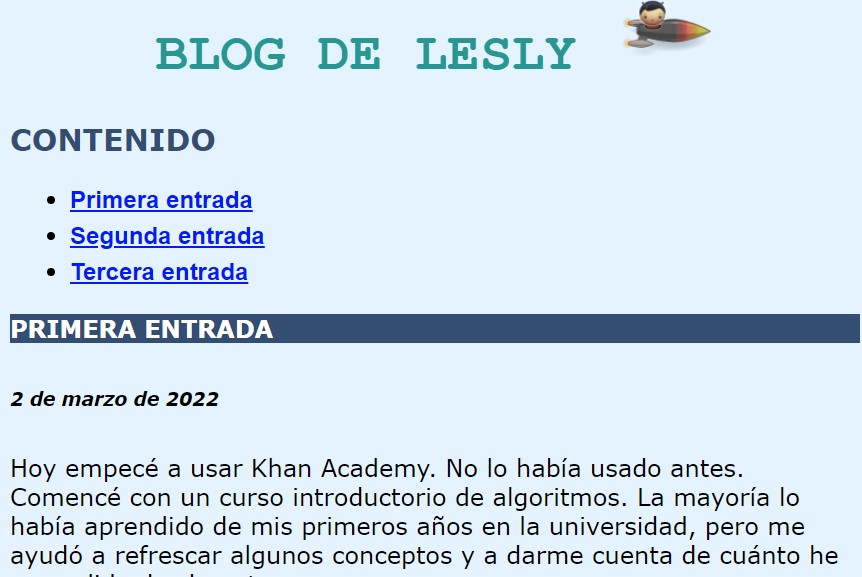
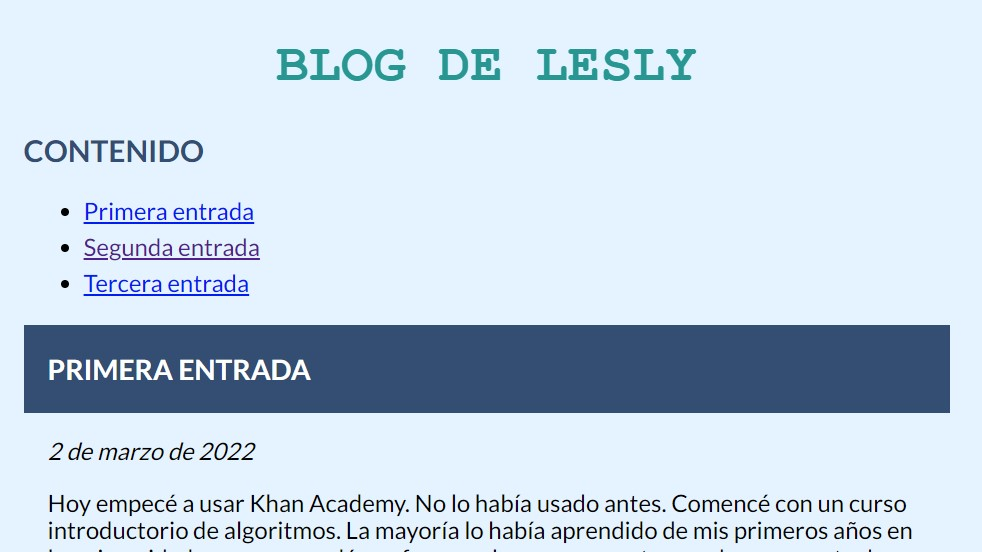
blog.html con diseño responsivo

diff --git a/pages/blog.html b/pages/blog.html
@@ -22,54 +22,102 @@
     <iframe src="lateral.html" frameborder="0" class="lateral"></iframe>
 
     <div class="contenedor">
-        <!--Título con logo-->
-        <h1>
-            BLOG DE LESLY
-            <img src="https://cdn.kastatic.org/third_party/javascript-khansrc/live-editor/build/images/space/rocketship.png"
-                height="70">
-        </h1>
 
-        <!--Tabla de contenido-->
-        <h2>CONTENIDO</h2>
-        <ul>
-            <li> <a href="#post-1" class="entrada">
-                    Primera entrada
-                </a></li>
-            <li> <a href="#post-2" class="entrada">
-                    Segunda entrada
-                </a></li>
-            <li> <a href="#post-3" class="entrada">
-                    Tercera entrada
-                </a></li>
-        </ul>
+        <section class="informacion">
+            <!--Título con logo-->
+            <h1 class="informacion__titulo">
+                BLOG DE LESLY
+            </h1>
+        </section>
 
-        <!--Empiezan las entradas con su fecha correspondiente-->
-        <h3 id="post-1">PRIMERA ENTRADA</h3>
-        <h6>2 de marzo de 2022</h6>
+        <section class="contenido">
 
-        <p>Hoy empecé a usar Khan Academy. No lo había usado antes. Comencé con un curso introductorio de algoritmos. La
-            mayoría lo había aprendido de mis primeros años en la universidad, pero me ayudó a refrescar algunos
-            conceptos y
-            a darme cuenta de cuánto he aprendido desde entonces.</p>
+            <div class="seccion">
 
-        <h3 id="post-2">SEGUNDA ENTRADA</h3>
-        <h6>4 de marzo de 2022</h6>
+                <!--Tabla de contenido-->
+                <h2 class="contenido__titulo">CONTENIDO</h2>
+                <ul class="listado_contenido">
+                    <li class="referencia"> <a href="#post-1">
+                            Primera entrada
+                        </a></li>
+                    <li class="referencia"> <a href="#post-2">
+                            Segunda entrada
+                        </a></li>
+                    <li class="referencia"> <a href="#post-3">
+                            Tercera entrada
+                        </a></li>
+                </ul>
+            </div>
+            <div class="seccion">
+                <!--Empiezan las entradas con su fecha correspondiente-->
 
-        <p>Hoy finalicé mi curso de introducción a la programación. Hace tiempo que no usaba pseudocódigo, por lo que me
-            ayudó a recordarme cómo usarlo y practicar mi lógica con los exámenes, especialmente en lo concerniente a
-            ciclos.
-        </p>
+                <div class="entradas">
+                    <article class="entrada">
+                        <div class="titulo">
+                            <h3 id="post-1">PRIMERA ENTRADA</h3>
+                        </div>
+                        <div class="entrada__contenido">
+                            <p class="entrada__fecha">2 de marzo de 2022</p>
 
+                            <p>Hoy empecé a usar Khan Academy. No lo había usado antes. Comencé con un curso
+                                introductorio
+                                de
+                                algoritmos. La
+                                mayoría lo había aprendido de mis primeros años en la universidad, pero me ayudó a
+                                refrescar
+                                algunos
+                                conceptos y
+                                a darme cuenta de cuánto he aprendido desde entonces.</p>
+                        </div>
+                    </article>
 
-        <h3 id="post-3">TERCERA ENTRADA</h3>
-        <h6>9 de marzo de 2022</h6>
+                    <article class="entrada">
+                        <div class="titulo">
+                            <h3 id="post-2">SEGUNDA ENTRADA</h3>
+                        </div>
 
-        <p>Hoy empecé con este curso de html. En la universidad no tuve la oportunidad de practicar mucho con html y
-            css,
-            por lo que me gusta estar aprendiendo ahorita. Estoy consciente de que mis páginas no son muy bonitas
-            todavía,
-            pero estoy mejorando de a poco.
-        </p>
+                        <div class="entrada__contenido">
+                            <p class="entrada__fecha">4 de marzo de 2022</p>
+
+                            <p>Hoy finalicé mi curso de introducción a la programación. Hace tiempo que no usaba
+                                pseudocódigo,
+                                por
+                                lo
+                                que me
+                                ayudó a recordarme cómo usarlo y practicar mi lógica con los exámenes, especialmente en
+                                lo
+                                concerniente
+                                a
+                                ciclos.
+                            </p>
+                        </div>
+
+                    </article>
+                    <article class="entrada">
+                        <div class="titulo">
+                            <h3 id="post-3">TERCERA ENTRADA</h3>
+                        </div>
+
+                        <div class="entrada__contenido">
+                            <p class="entrada__fecha">9 de marzo de 2022</p>
+
+                            <p>Hoy empecé con este curso de html. En la universidad no tuve la oportunidad de practicar
+                                mucho
+                                con
+                                html y
+                                css,
+                                por lo que me gusta estar aprendiendo ahorita. Estoy consciente de que mis páginas no
+                                son
+                                muy
+                                bonitas
+                                todavía,
+                                pero estoy mejorando de a poco.
+                            </p>
+                        </div>
+                    </article>
+                </div>
+            </div>
+        </section>
     </div>
 </body>
 

diff --git a/css/pages/blog_estilos.css b/css/pages/blog_estilos.css
@@ -6,6 +6,10 @@ html{
     font-family: 'Lato', sans-serif;
 }
 
+body {
+    background: rgb(227, 243, 255);
+}
+
 /************MEDIA QUERIES**************/
 
 /* TAMAÑO DE LA BARRA SEGÚN ANCHO DE PANTALLA */
@@ -40,6 +44,13 @@ html{
         text-align: center;
     }
 
+    .listado_contenido{
+        list-style-type:none;
+        padding-left:0.2em;
+        padding-right: 0.2em;
+    }
+
+
 }
 
 @media (min-width: 780px) {
@@ -66,38 +77,57 @@ html{
     padding-left: 1em;
 }
 
-body {
-    font-family: "Verdana", sans-serif;
-    background: rgb(227, 243, 255);
+/* Descripcion */
+.informacion{
+    text-align: center;
 }
 
-
-h1 {
+.informacion__titulo {
     font-family: "Courier New", monospace;
-    text-align: center;
     font-size: 2.25em;
     color: rgb(0, 150, 145);
 }
 
-h2 {
+/* Seccion */
+.seccion{
+    margin: 1em;
+}
+
+.contenido__titulo {
 
     color: rgb(48, 77, 112);
     font-size: 1.25em;
 }
 
-h3 {
+/* Contenido */
+.referencia {
+    line-height: 1.5em;
+}
+
+/* Entradas */
+.entradas{
+    column-gap: 1em;
+    display: grid;
+    grid-template-columns: repeat(auto-fit, minmax(0em,40em));
+    justify-content: center;
+}
+
+.titulo {
     color: rgb(255, 255, 255);
     background: rgb(48, 77, 112);
     font-size: 1em;
+    padding-right: 1em;
+    padding-left: 1em;
+    padding-top: 0.0007em;
+    padding-bottom: 0.0007em;
 }
 
-h6 {
-    font-size: 0.78em;
+.entrada__contenido{
+    padding-right: 1em;
+    padding-left: 1em;
+}
+
+.entrada__fecha {
     font-style: italic;
 }
 
-.entrada {
-    font-weight: bold;
-    line-height: 1.5em;
-    font-family: sans-serif;
-}

diff --git a/css/pages/recetas_estilos.css b/css/pages/recetas_estilos.css
@@ -101,6 +101,11 @@ body {
     color: rgb(94, 50, 0);
 }
 
+/* Contenido */
+.referencia {
+    line-height: 1.5em;
+}
+
 /* Recetas */
 .receta__foto{
     width:100%;
